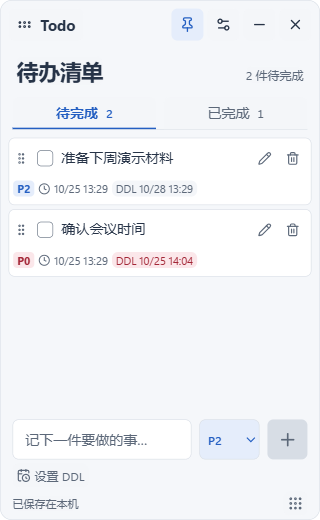
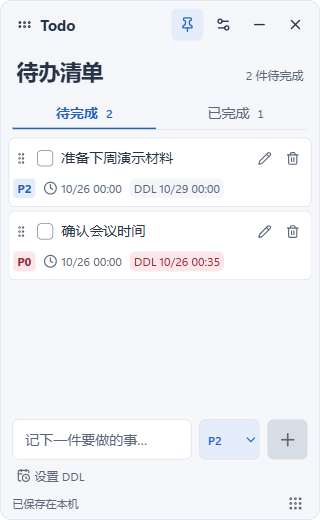
fix: improve task metadata spacing and readability

diff --git a/src/styles.css b/src/styles.css
@@ -21,6 +21,8 @@
   --space-3: 12px;
   --space-4: 16px;
   --space-5: 24px;
+  --task-meta-font-size: 12px;
+  --task-meta-line-height: 20px;
   --radius-small: 6px;
   --radius-window: 12px;
   --ease-feedback: cubic-bezier(.2, 0, .2, 1);
@@ -71,10 +73,11 @@ h1 { font-size: 22px; line-height: 1.3; font-weight: 650; margin: 0; letter-spac
 .todo-check input:checked + .check-mark { background: var(--color-accent); border-color: var(--color-accent); color: var(--color-raised); }
 .todo-text { display: block; min-width: 0; padding: 0 0 var(--space-1); line-height: 1.6; overflow-wrap: anywhere; user-select: text; }
 .completed .todo-text { color: var(--color-muted); text-decoration: line-through; }
-.todo-content { flex: 1; min-width: 0; padding: var(--space-1) 0; }
-.todo-meta { display: flex; flex: 0 0 100%; min-width: 0; align-items: center; flex-wrap: nowrap; gap: var(--space-1); padding-bottom: var(--space-1); white-space: nowrap; }
-.todo-created { display: inline-flex; flex-shrink: 0; align-items: center; gap: var(--space-1); color: var(--color-muted); font-size: 11px; line-height: 16px; }
-.priority-badge { display: inline-block; flex-shrink: 0; padding: 0 var(--space-1); border-radius: var(--space-1); font-size: 11px; font-weight: 650; line-height: 16px; }
+.todo-content { flex: 1; min-width: 0; padding: var(--space-1) 0 0; }
+.todo-content .todo-text { padding-bottom: 0; }
+.todo-meta { display: flex; flex: 0 0 100%; min-width: 0; align-items: center; flex-wrap: nowrap; gap: var(--space-2); padding-bottom: var(--space-1); font-size: var(--task-meta-font-size); line-height: var(--task-meta-line-height); white-space: nowrap; }
+.todo-created { display: inline-flex; flex-shrink: 0; align-items: center; gap: var(--space-1); color: var(--color-muted); }
+.priority-badge { display: inline-block; flex-shrink: 0; padding: 0 var(--space-1); border-radius: var(--space-1); font-weight: 650; }
 .priority-select { width: 60px; flex-shrink: 0; min-height: 32px; padding: 0 var(--space-1); border: 1px solid var(--color-border); border-radius: var(--radius-small); font-size: 12px; font-weight: 600; cursor: pointer; }
 .priority-select:hover:not(:disabled) { border-color: var(--color-accent); }
 .priority-select:disabled { cursor: default; color: var(--color-muted); background: var(--color-surface); }
@@ -120,7 +123,7 @@ input::placeholder { color: var(--color-muted); }
 .deadline-shortcuts button { min-height: 28px; padding: var(--space-1) var(--space-2); border-radius: var(--radius-small); font-size: 12px; background: var(--color-surface); }
 .deadline-shortcuts button:hover:not(:disabled) { color: var(--color-accent); background: var(--color-accent-soft); }
 .deadline-editor .hint { font-size: 11px; margin-bottom: 0; }
-.deadline-badge { display: inline-flex; flex-shrink: 0; min-height: 16px; padding: 0 var(--space-1); border-radius: var(--radius-small); font-size: 11px; line-height: 16px; text-align: left; white-space: nowrap; }
+.deadline-badge { display: inline-flex; flex-shrink: 0; min-height: var(--task-meta-line-height); padding: 0 var(--space-1); border-radius: var(--radius-small); text-align: left; white-space: nowrap; }
 .deadline-neutral { color: var(--color-muted); background: var(--color-surface); }
 .deadline-soon { color: var(--color-warning); background: var(--color-warning-soft); }
 .deadline-urgent, .deadline-overdue { color: var(--color-danger); background: var(--color-danger-soft); }

diff --git a/src/components/TodoItem.vue b/src/components/TodoItem.vue
@@ -102,7 +102,7 @@ function editKey(event: KeyboardEvent) {
         <span class="priority-badge" :class="`priority-${todo.priority}`" :data-priority="todo.priority"
           :title="`优先级：${todo.priority.toUpperCase()} ${PRIORITY_LABELS[todo.priority]}`"
           :aria-label="`优先级：${todo.priority.toUpperCase()} ${PRIORITY_LABELS[todo.priority]}`">{{ todo.priority.toUpperCase() }}</span>
-        <time v-if="createdDate" class="todo-created" :datetime="createdDate.toISOString()" :title="`添加于 ${fullCreatedTime}`" :aria-label="`添加于 ${fullCreatedTime}`"><Clock :size="12" aria-hidden="true" />{{ createdTime }}</time>
+        <time v-if="createdDate" class="todo-created" :datetime="createdDate.toISOString()" :title="`添加于 ${fullCreatedTime}`" :aria-label="`添加于 ${fullCreatedTime}`"><Clock :size="14" aria-hidden="true" />{{ createdTime }}</time>
         <span v-else class="todo-created">添加时间未知</span>
         <button class="deadline-badge" :class="`deadline-${deadline?.tone ?? 'neutral'}`" :aria-label="`设置截止时间：${todo.text}`"
           :aria-description="deadlineDetails" :title="deadlineDetails" @click="beginEdit(true)">

diff --git a/DESIGN.md b/DESIGN.md
@@ -11,7 +11,7 @@
 - 标题下方为“待完成 / 已完成”两个紧凑页签，始终显示各自数量。启动默认待完成，勾选后自动归类但不切换视图。页签支持方向键、Home / End；任务移出当前视图后，焦点移至下一项或当前页签。
 - 已完成任务保留优先级与添加时间，取消勾选可恢复；不显示排序柄。永久删除采用行内两步确认，默认焦点在取消，支持 Esc 返回，不叠加模态窗口。
 - 新任务记录添加时间，以时钟图标加“月/日 时:分”展示，悬停与无障碍名称保留含年份的完整本地时间；旧任务显示“添加时间未知”，不推测历史时间。
-- 任务正文下方使用完整卡片宽度的单行信息栏，优先级、添加时间、DDL 依次横向排列，在最小 280 DIP 窗口下也不换行或省略日期。DDL 为可选字段，未设置时显示“设置 DDL”，已设置时显示“DDL 月/日 时:分”；完整剩余时间放入悬停提示和无障碍描述。24 小时内为琥珀色、1 小时内及逾期为红色，逾期时前缀明确改为“逾期”。已完成任务保留截止时间，停止紧迫提示，不改变优先级和手动排序。
+- 任务正文下方使用完整卡片宽度的单行信息栏，优先级、添加时间、DDL 依次横向排列；字号 12px、行高 20px、字段间距 8px，时钟图标 14px。正文底部不叠加留白，保留卡片行间距 4px，使信息栏靠近任务描述。在最小 280 DIP 窗口下也不换行或省略日期。DDL 为可选字段，未设置时显示“设置 DDL”，已设置时显示“DDL 月/日 时:分”；完整剩余时间放入悬停提示和无障碍描述。24 小时内为琥珀色、1 小时内及逾期为红色，逾期时前缀明确改为“逾期”。已完成任务保留截止时间，停止紧迫提示，不改变优先级和手动排序。
 - 新增区的日历按钮展开日期 / 时间字段，已有任务可点击 DDL 直接进入编辑。原生日期、时间控件精确到分钟，只选日期默认 23:59，提供今天、明天、清除按钮。展开区可滚动，最小窗口尺寸下主要控件仍可操作。
 - 桌面提醒为设置中的独立开关，默认关闭。由 Rust 侧触发，运行或最小化时检查，退出后停止；界面倒计时按系统时间重新计算，不用递减计数。
 - 不使用背景模糊、渐变、辉光、装饰卡片；动画仅用于按钮状态，尊重 reduced motion。

diff --git a/README.md b/README.md
@@ -47,7 +47,7 @@
 | 完成 | 勾选任务后，自动从“待完成”移入“已完成”；当前页保持不变。 |
 | 查看 / 恢复已完成任务 | 点击“已完成”页签；取消任务勾选可恢复到“待完成”，保留文字、优先级和原添加时间。 |
 | 永久删除已完成任务 | 在“已完成”中点击垃圾桶，再点击“永久删除”。取消或按 Esc 会保留任务。 |
-| 查看任务信息 | 正文下方同一行显示优先级 P0–P3、时钟图标与添加时间、DDL；日期均按 Windows 本地时间显示到分钟。悬停可查看完整优先级说明、含年份的添加时间和截止倒计时。 |
+| 查看任务信息 | 正文下方同一行显示优先级 P0–P3、时钟图标与添加时间、DDL；信息栏贴近正文，使用 12px 字号和 8px 字段间距。日期均按 Windows 本地时间显示到分钟，悬停查看完整说明和截止倒计时。 |
 | 设置 DDL | 新增区点击日历按钮，或点击任务上的“设置 DDL”；选择本地日期和时间。只选日期默认 23:59。 |
 | 修改 / 清除 DDL | 点击卡片上的 DDL 或铅笔，保存修改；“清除 DDL”后保存即可取消截止时间。 |
 | 开启桌面提醒 | 在设置中开启“桌面通知提醒”，DDL 前 1 小时和截止时各提醒一次。默认关闭。 |

diff --git a/RELEASE_NOTES.md b/RELEASE_NOTES.md
@@ -1,6 +1,6 @@
-# Todo Widget v0.4.2
+# Todo Widget v0.4.3
 
-任务卡片的优先级、添加时间和 DDL 现在固定显示在同一行，已设置截止时间时也不会分成多行。优先级简写为 P0–P3，添加时间使用时钟图标并保留月、日、时、分；悬停查看完整说明、含年份的时间和倒计时。临近截止的颜色提示保留，过期后明确显示“逾期”，点击 DDL 仍直接进入日期编辑。
+调整任务信息栏的阅读体验：去掉正文下方叠加的 8px 留白，让信息栏靠近任务描述；字号由 11px 增至 12px，行高增至 20px，字段间距由 4px 增至 8px，时钟图标同步放大。优先级、添加时间和 DDL 继续保持单行，日期完整显示；悬停详情、DDL 编辑及临近 / 逾期提示保留。
 
 ## v0.4.0 的 DDL 功能
 
